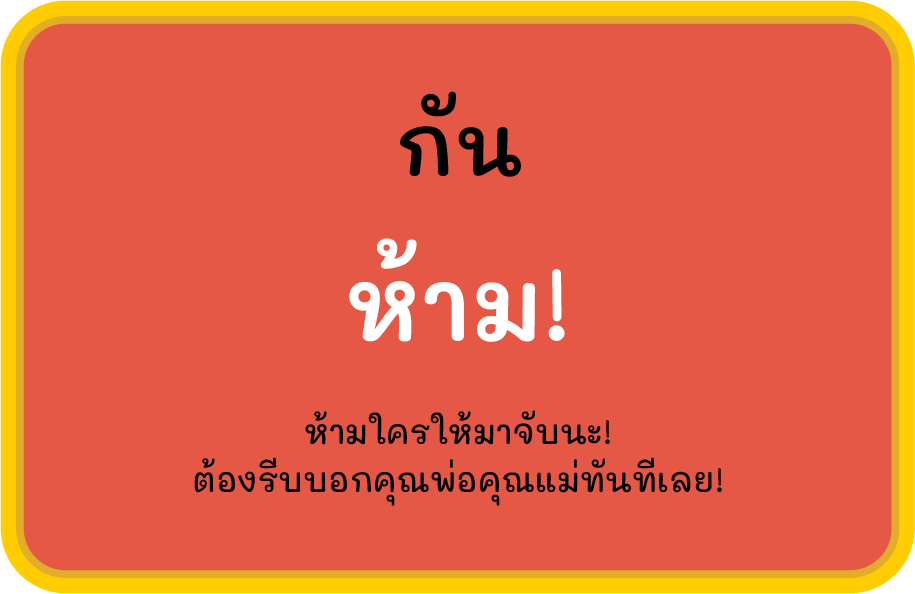
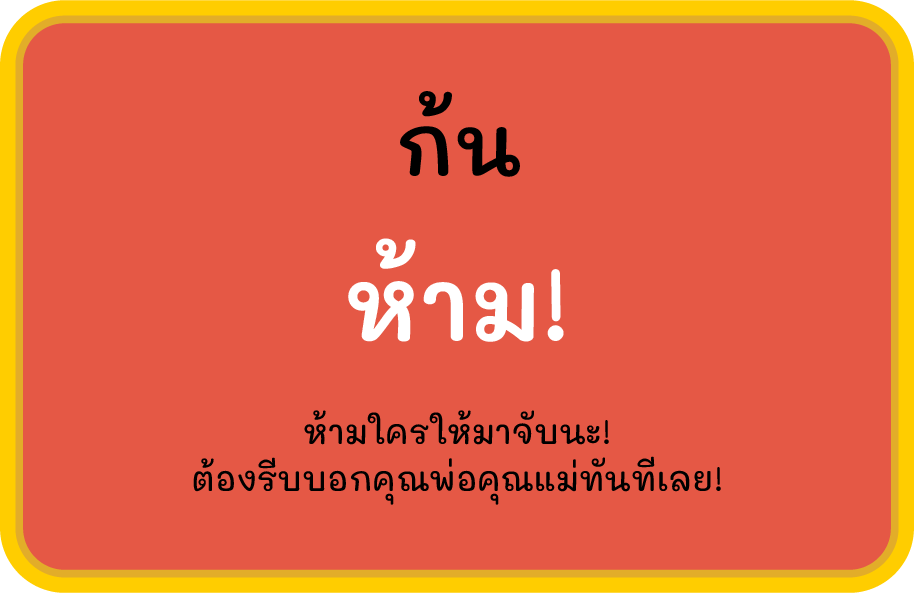
update modified

diff --git a/public/css/homeStyle.css b/public/css/homeStyle.css
@@ -54,7 +54,7 @@ html, body {
     left: 50%;
     transform: translate(-50%, -50%);
     width: 34vw;
-    max-width: 550px;
+    max-width: 600px;
     opacity: 0.5;
     z-index: 0;
 }
@@ -62,7 +62,7 @@ html, body {
 .logo {
     position: relative;
     width: 34vw;
-    max-width: 550px;
+    max-width: 600px;
     z-index: 1;
 }
 

diff --git a/map.html b/map.html
@@ -3,7 +3,8 @@
 <head>
     <meta charset="UTF-8">
     <meta name="viewport" content="width=device-width, initial-scale=1.0">
-    <title>Game Map</title>
+    <link rel="icon" type="image/png" href="assets/logo.svg" />
+    <title>Mission SafeZone</title>
     <link rel="stylesheet" href="public/css/mapStyle.css">
 </head>
 

diff --git a/lesson1.html b/lesson1.html
@@ -3,6 +3,7 @@
 <head>
     <meta charset="UTF-8">
     <meta name="viewport" content="width=device-width, initial-scale=1.0">
+    <link rel="icon" type="image/png" href="assets/logo.svg" />
     <title>Mission SafeZone</title>
     <link rel="stylesheet" href="public/css/lesson1Style.css">
     <style>

diff --git a/lesson2.html b/lesson2.html
@@ -3,6 +3,7 @@
 <head>
     <meta charset="UTF-8">
     <meta name="viewport" content="width=device-width, initial-scale=1.0">
+    <link rel="icon" type="image/png" href="assets/logo.svg" />
     <title>Mission SafeZone</title>
     <link rel="stylesheet" href="public/css/lesson2Style.css">
 </head>

diff --git a/end.html b/end.html
@@ -3,6 +3,7 @@
 <head>
     <meta charset="UTF-8">
     <meta name="viewport" content="width=device-width, initial-scale=1.0">
+    <link rel="icon" type="image/png" href="assets/logo.svg" />
     <title>Mission SafeZone</title>
     <link rel="stylesheet" href="public/css/game2.css">
 </head>

diff --git a/introduction.html b/introduction.html
@@ -3,6 +3,7 @@
 <head>
   <meta charset="UTF-8" />
   <meta name="viewport" content="width=device-width, initial-scale=1.0" />
+  <link rel="icon" type="image/png" href="assets/logo.svg" />
   <title>Mission SafeZone</title>
   <style>
     body {

diff --git a/lesson3.html b/lesson3.html
@@ -2,6 +2,7 @@
 <html lang="th">
 <head>
   <meta charset="UTF-8">
+  <link rel="icon" type="image/png" href="assets/logo.svg" />
   <title>Mission SafeZone</title>
   <link rel="stylesheet" href="public/css/lesson3Style.css">
 </head>
